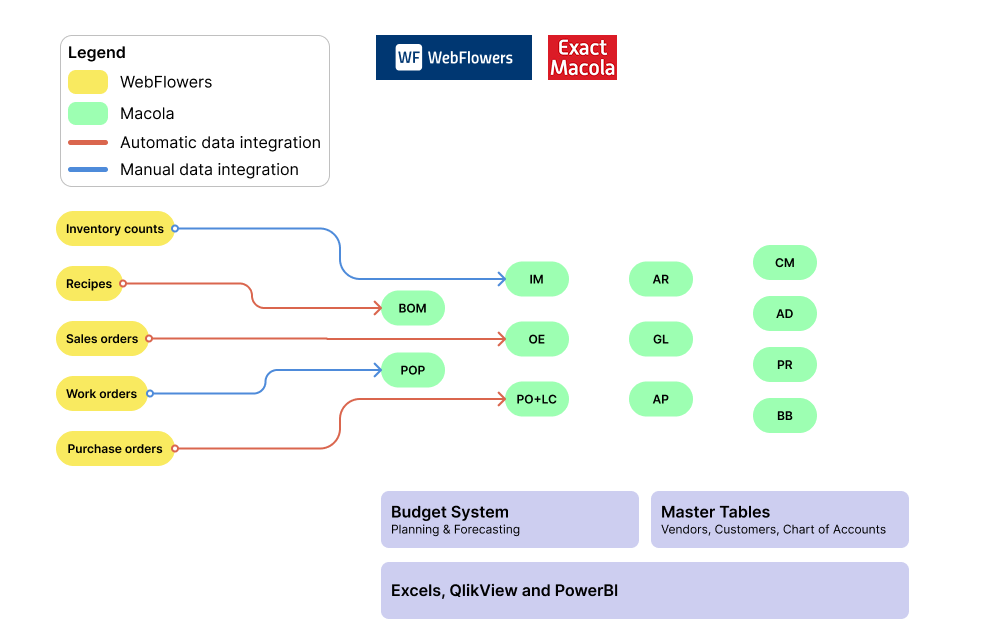
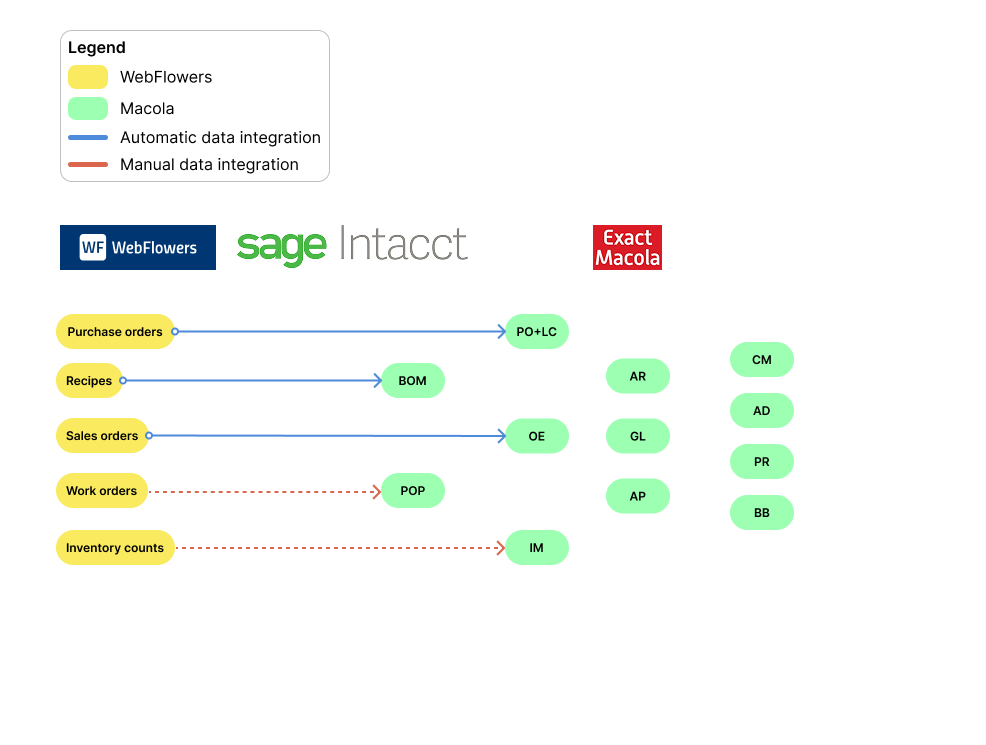
luis

diff --git a/index.html b/index.html
@@ -2540,8 +2540,8 @@
                                     <td>2025-07-31</td>
                                     <td>9:00 – 10:30</td>
                                     <td>11. Implementation Strategy/Integration With Intacct</td>
-                                    <td>Initial data upload(Inventories,Costs,balances) Module rollout, Macola robot automation, data accuracy safeguards. Workato integration scope, flow syncs, and exception handling.</td>
-                                    <td>Define Timelines/Teams Ricardo/David- Misma pagina</td>
+                                    <td>Initial data upload(Inventories,Costs,balances) Module rollout , data accuracy safeguards. Workato integration scope, flow syncs, and exception handling.</td>
+                                    <td>Define Timelines/Teams Ricardo/David</td>
                                 </tr>
                                 <tr class="break-row">
                                     <td>2025-07-31</td>
@@ -2554,7 +2554,7 @@
                                     <td>2025-07-31</td>
                                     <td>10:45 – 11:00</td>
                                     <td>12. Reporting, VU </td>
-                                    <td>Report continuity,future handoff to VU. (Jose) </td>
+                                    <td>Phase 1 - Replicate DB and Reconnect(GHT), Phase 2- DW Migration, Phase 3- Move to VU </td>
                                     <td></td>
                                 </tr>
                                  <tr>
@@ -2595,6 +2595,38 @@
                     </div>
                 </div>
             </div>
+
+
+
+            <!-- Meeting Goals Enhanced -->
+<div class="section">
+    <div class="section-header" onclick="toggleSection('MeetingGoals')">
+        <h2>Meeting Goals</h2>
+        <div class="qa-icon" onclick="openQAModal(event, 'MeetingGoals')" data-section="MeetingGoals">💬</div>
+        <button class="toggle-btn" id="toggle-MeetingGoals">▼</button>
+    </div>
+    <div class="section-content collapsed" id="MeetingGoals">
+        <div class="meeting-goals-container">
+            <div class="goals-item">
+                <div class="goals-number">1</div>
+                <div class="goals-text">Review current project status and completed milestones</div>
+            </div>
+            <div class="goals-item">
+                <div class="goals-number">2</div>
+                <div class="goals-text">Provide comprehensive basic training on new system features</div>
+            </div>
+            <div class="goals-item">
+                <div class="goals-number">3</div>
+                <div class="goals-text">Prepare and validate sandbox environment for go-live testing</div>
+            </div>
+            <div class="goals-item">
+                <div class="goals-number">4</div>
+                <div class="goals-text">Establish clear agreements on responsibilities and define next steps</div>
+            </div>
+        </div>
+    </div>
+</div>
+
 
 
 
@@ -2700,12 +2732,40 @@
                 <div class="section-content collapsed" id="erp-integration">
                     <div class="erp-integration-container">
                         <div class="diagram-title">Initial status</div>
-                        <p style="text-align: center; margin: 0px; ">It does not allow the unification of accounting in Intacct for the companies in the United States.</p>
+                        <p style="text-align: center; margin: 0px; ">Following the sale of Macola, the West Coast operations must replace that solution with an alternative system.</p>
+                        <p style="text-align: center; margin: 0px; ">There is a high level of manual work involved in the current integrations, along with strong dependencies, which represent a considerable risk.</p>
+                        
+                        
+                        
                         <img src="img/img wf intacct.png" alt="">
                     </div>
 
                 </div>
             </div>
+
+
+                    <!-- Project Transition Animation -->
+            <div class="section">
+                <div class="section-header" onclick="toggleSection('erp-transition')">
+                    <h2>WebFlowers - Macola - Intacct Transition</h2>
+                    <div class="qa-icon" onclick="openQAModal(event, 'erp-transition')" data-section="erp-transition">💬</div>
+                    <button class="toggle-btn" id="toggle-erp-transition">▼</button>
+                </div>
+                <div class="section-content collapsed" id="erp-transition">
+                    <div class="erp-transition-container">
+                     <img src="img/gif-c6.gif" alt="">
+                    </div>
+
+                </div>
+            </div>
+
+
+
+
+
+
+
+
                 
         <div class="section">
         <div class="section-header" onclick="toggleSection('final-release')">
@@ -2904,34 +2964,7 @@
                 </div>
             </div>
 
-            <!-- Meeting Goals Enhanced -->
-<div class="section">
-    <div class="section-header" onclick="toggleSection('MeetingGoals')">
-        <h2>Meeting Goals</h2>
-        <div class="qa-icon" onclick="openQAModal(event, 'MeetingGoals')" data-section="MeetingGoals">💬</div>
-        <button class="toggle-btn" id="toggle-MeetingGoals">▼</button>
-    </div>
-    <div class="section-content collapsed" id="MeetingGoals">
-        <div class="meeting-goals-container">
-            <div class="goals-item">
-                <div class="goals-number">1</div>
-                <div class="goals-text">Review current project status and completed milestones</div>
-            </div>
-            <div class="goals-item">
-                <div class="goals-number">2</div>
-                <div class="goals-text">Provide comprehensive basic training on new system features</div>
-            </div>
-            <div class="goals-item">
-                <div class="goals-number">3</div>
-                <div class="goals-text">Prepare and validate sandbox environment for go-live testing</div>
-            </div>
-            <div class="goals-item">
-                <div class="goals-number">4</div>
-                <div class="goals-text">Establish clear agreements on responsibilities and define next steps</div>
-            </div>
-        </div>
-    </div>
-</div>
+
 
 
          <!-- Master Tables -->
